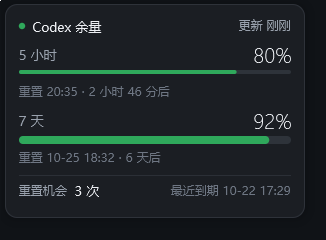
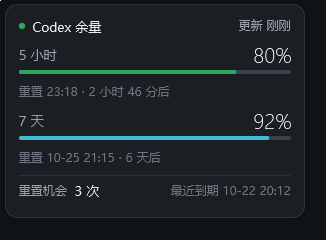
feat(ui): one bar weight, cyan for the weekly bar, visible track
The two rows used to be told apart by bar thickness (4dp vs 8dp). That read as
"the thick one matters more" when it only means "this one is a week long", so
both bars are now 4dp (mini: 3dp) and the weekly bar is cyan (#1097B4 light,
#3FBED6 dark) while the 5h bar keeps the green/amber/red severity ramp.

- bar_fill() decides per row: stale data goes neutral grey first, then a day
  window gets the identity colour, everything else gets severity. A test pins
  the 7d bar to cyan at every level so it cannot drift back into the ramp.
- The track was #E8EAEE on a white card -- the empty slot was effectively
  invisible. It is now #CFD5DD (#3A414B dark), and the neutral fill was
  darkened to match so a failed fetch still shows a readable bar.
- The mini card is opaque (#FBFCFD / #1E2228). At 92% alpha a dark wallpaper
  pulled the composite right into the track's value range and the empty slot
  disappeared entirely; opacity costs nothing and fixes it at the source.
- README screenshots, DEVDOC §7/§8/§9 and the rendered previews follow.

diff --git a/src/ui.rs b/src/ui.rs
@@ -26,6 +26,8 @@ pub struct Theme {
     pub border: Rgba,
     pub shadow: Rgba,
     pub mini_bg: Rgba,
+    /// Fill of the weekly bar: an identity colour, not a severity one.
+    pub day: Rgba,
 }
 
 pub fn theme(light: bool) -> Theme {
@@ -38,10 +40,15 @@ pub fn theme(light: bool) -> Theme {
             faint: Rgba::hex(0x9AA1AC),
             line: Rgba::hex(0xEDEFF2),
             hover: Rgba::hex(0xF4F5F7),
-            track: Rgba::hex(0xE8EAEE),
+            track: Rgba::hex(0xCFD5DD),
+            // cyan reads as "the other window" on white without competing with
+            // the green/amber/red the 5h bar uses for severity
+            day: Rgba::hex(0x1097B4),
             border: Rgba::hex(0xDADDE3).with_a(210),
             shadow: Rgba::rgb(20, 24, 32).with_a(44),
-            mini_bg: Rgba::hex(0xFBFCFD).with_a(238),
+            // opaque: a translucent card picks up the desktop behind it, and on
+            // a dark wallpaper the composite lands right on the track's grey
+            mini_bg: Rgba::hex(0xFBFCFD),
         }
     } else {
         Theme {
@@ -52,10 +59,13 @@ pub fn theme(light: bool) -> Theme {
             faint: Rgba::hex(0x6E7683),
             line: Rgba::hex(0x2B2F36),
             hover: Rgba::hex(0x24282E),
-            track: Rgba::hex(0x2E333A),
+            track: Rgba::hex(0x3A414B),
+            // lifted for the dark card, same hue family as the light theme
+            day: Rgba::hex(0x3FBED6),
             border: Rgba::hex(0x3A3F47).with_a(200),
             shadow: Rgba::rgb(0, 0, 0).with_a(90),
-            mini_bg: Rgba::hex(0x1E2228).with_a(236),
+            // opaque for the same reason as the light theme
+            mini_bg: Rgba::hex(0x1E2228),
         }
     }
 }
@@ -73,9 +83,24 @@ pub fn severity(remaining: f64) -> Rgba {
 
 pub fn neutral_bar(light: bool) -> Rgba {
     if light {
-        Rgba::hex(0xB6BCC6)
+        Rgba::hex(0x99A1AF)
     } else {
-        Rgba::hex(0x555C67)
+        Rgba::hex(0x737C8A)
+    }
+}
+
+/// The two bars answer different questions. The 5h bar's colour is its
+/// **severity** (green / amber / red); the 7d bar's colour is its **identity**
+/// (cyan), so the two rows are told apart by colour instead of by weight and
+/// the bar never looks like it changed meaning. Grey wins over both when the
+/// data is stale.
+fn bar_fill(t: &Theme, row: &RowView, dim: bool) -> Rgba {
+    if dim {
+        neutral_bar(t.light)
+    } else if row.limit_secs >= 86_400 {
+        t.day
+    } else {
+        severity(row.remaining)
     }
 }
 
@@ -249,31 +274,12 @@ const ROW_TOP: f32 = 41.0;
 const ROW_H: f32 = 56.0;
 const ROW_GAP: f32 = 10.0;
 const FOOTER_H: f32 = 30.0;
-/// The day window gets a twice-as-thick bar, so the two rows read apart at a
-/// glance without adding any label or divider.
-const BAR_THIN: f32 = 4.0;
-const BAR_THICK: f32 = 8.0;
-const MINI_BAR_THIN: f32 = 3.0;
-const MINI_BAR_THICK: f32 = 6.0;
+/// One thickness for every window. The two rows are told apart by their labels
+/// and reset lines; bar weight is not a channel we spend on that.
+const BAR_H: f32 = 4.0;
+const MINI_BAR_H: f32 = 3.0;
 const BAR_TOP: f32 = 25.0;
 const BOTTOM: f32 = 12.0;
-
-/// >= a day is the weekly window: thick bar. Hours stay thin.
-fn bar_height(limit_secs: i64) -> f32 {
-    if limit_secs >= 86_400 {
-        BAR_THICK
-    } else {
-        BAR_THIN
-    }
-}
-
-fn mini_bar_height(limit_secs: i64) -> f32 {
-    if limit_secs >= 86_400 {
-        MINI_BAR_THICK
-    } else {
-        MINI_BAR_THIN
-    }
-}
 
 fn card_h(rows: usize) -> f32 {
     let n = rows.max(1) as f32;
@@ -426,12 +432,6 @@ pub fn paint_popover(c: &mut Canvas, v: &View, t: &Theme, hover: Hover, scale: f
                 t.hover,
             );
         }
-        let sev = if failing || v.stale() {
-            neutral_bar(t.light)
-        } else {
-            severity(row.remaining)
-        };
-
         let label = if v.show_used {
             format!("{} · 已用", row.label)
         } else {
@@ -472,15 +472,14 @@ pub fn paint_popover(c: &mut Canvas, v: &View, t: &Theme, hover: Hover, scale: f
         } else {
             row.remaining / 100.0
         };
-        let bar_h = bar_height(row.limit_secs);
         card.bar(
             pad,
             y + s(BAR_TOP),
             w - pad * 2.0,
-            s(bar_h),
+            s(BAR_H),
             frac as f32,
             t.track,
-            sev,
+            bar_fill(t, row, failing || v.stale()),
         );
 
         let reset_line = if row.reset_at > 0 {
@@ -625,8 +624,8 @@ pub fn paint_mini(c: &mut Canvas, v: &View, t: &Theme, hover: bool, scale: f32, 
             Align::Left,
             t.muted,
         );
-        // thin for the 5h window, twice as thick for the weekly one
-        let bar_h = mini_bar_height(row.limit_secs);
+        // same thickness for both rows, matching the popover
+        let bar_h = MINI_BAR_H;
         let mid = y + s(6.0);
         card.bar(
             s(34.0),
@@ -635,7 +634,7 @@ pub fn paint_mini(c: &mut Canvas, v: &View, t: &Theme, hover: bool, scale: f32, 
             s(bar_h),
             (row.remaining / 100.0) as f32,
             t.track,
-            sev,
+            bar_fill(t, row, failing || v.stale()),
         );
         let txt = if v.show_used {
             fmt::pct(row.used)
@@ -695,5 +694,29 @@ mod tests {
                 }
             }
         }
+    }
+
+    fn row(limit_secs: i64, remaining: f64) -> RowView {
+        RowView {
+            label: String::new(),
+            short: String::new(),
+            limit_secs,
+            used: 100.0 - remaining,
+            remaining,
+            reset_at: 0,
+        }
+    }
+
+    /// The weekly bar is an identity colour: it must not drift into the 5h
+    /// severity palette, and both bars go grey together when the data is stale.
+    #[test]
+    fn weekly_bar_keeps_its_own_colour() {
+        let t = theme(true);
+        assert_eq!(bar_fill(&t, &row(18_000, 90.0), false), severity(90.0));
+        assert_eq!(bar_fill(&t, &row(604_800, 90.0), false), t.day);
+        assert_eq!(bar_fill(&t, &row(604_800, 10.0), false), t.day);
+        assert_eq!(bar_fill(&t, &row(18_000, 10.0), false), severity(10.0));
+        assert_eq!(bar_fill(&t, &row(604_800, 90.0), true), neutral_bar(true));
+        assert_eq!(bar_fill(&theme(false), &row(604_800, 90.0), false), theme(false).day);
     }
 }

diff --git a/src/canvas.rs b/src/canvas.rs
@@ -21,7 +21,7 @@ use windows_sys::Win32::UI::WindowsAndMessaging::{UpdateLayeredWindow, ULW_ALPHA
 
 // ---------------------------------------------------------------- color
 
-#[derive(Clone, Copy, Debug)]
+#[derive(Clone, Copy, Debug, PartialEq, Eq)]
 pub struct Rgba {
     pub r: u8,
     pub g: u8,

diff --git a/README.md b/README.md
@@ -25,10 +25,10 @@
 | --- | --- |
 | 最上面一行 | 整体状态 + 「更新 刚刚」（多久之前取的数据） |
 | `5 小时` 行 | 5 小时窗口的余量百分比、进度条、重置时间与倒计时 |
-| `7 天` 行 | 7 天窗口，同样的四项；**它的进度条比上面那条粗一倍**，一眼分清是哪一个 |
+| `7 天` 行 | 7 天窗口，同样的四项；进度条是**青色**，与上面那条绿色的 5 小时条一眼分开 |
 | 底部 | 「重置机会 N 次」+ 最近一次的到期时间 |
 
-颜色就是全部结论：**绿**宽松、**琥珀**该留意了、**红**快用了、**灰**数据没取到。点任意一行可以在「剩余 / 已用」之间切换，方便对照别处的用量数字。
+颜色就是结论：5 小时条**绿**宽松、**琥珀**该留意了、**红**快用了、**灰**数据没取到；7 天条固定青色，它只用来说明"这是哪个窗口"，档位看右边的数字。点任意一行可以在「剩余 / 已用」之间切换，方便对照别处的用量数字。
 
 ## 小窗
 
